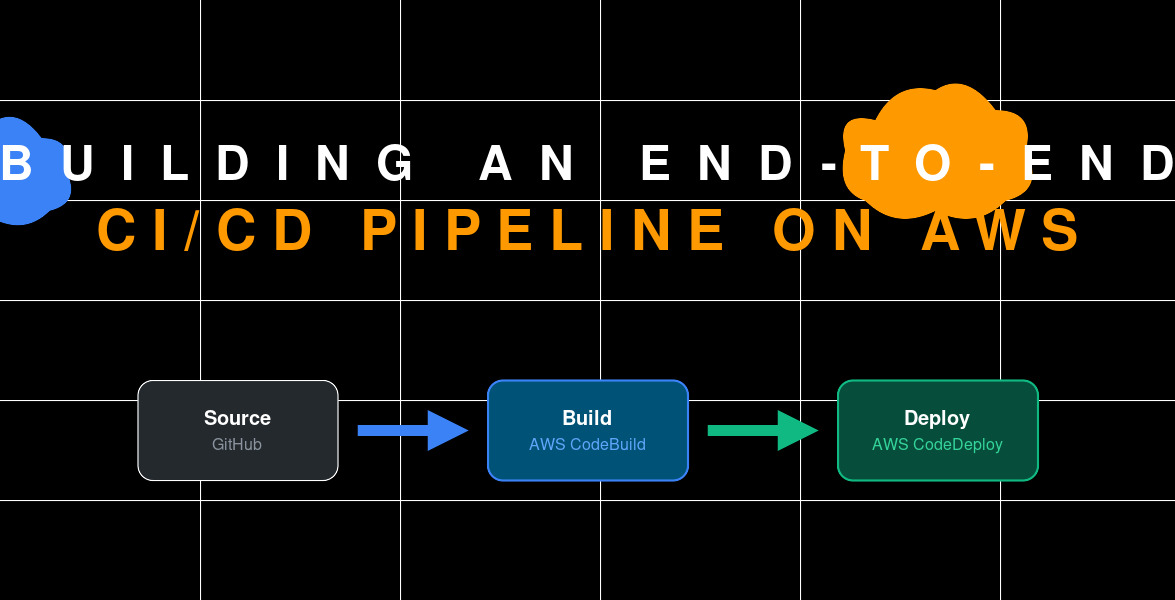
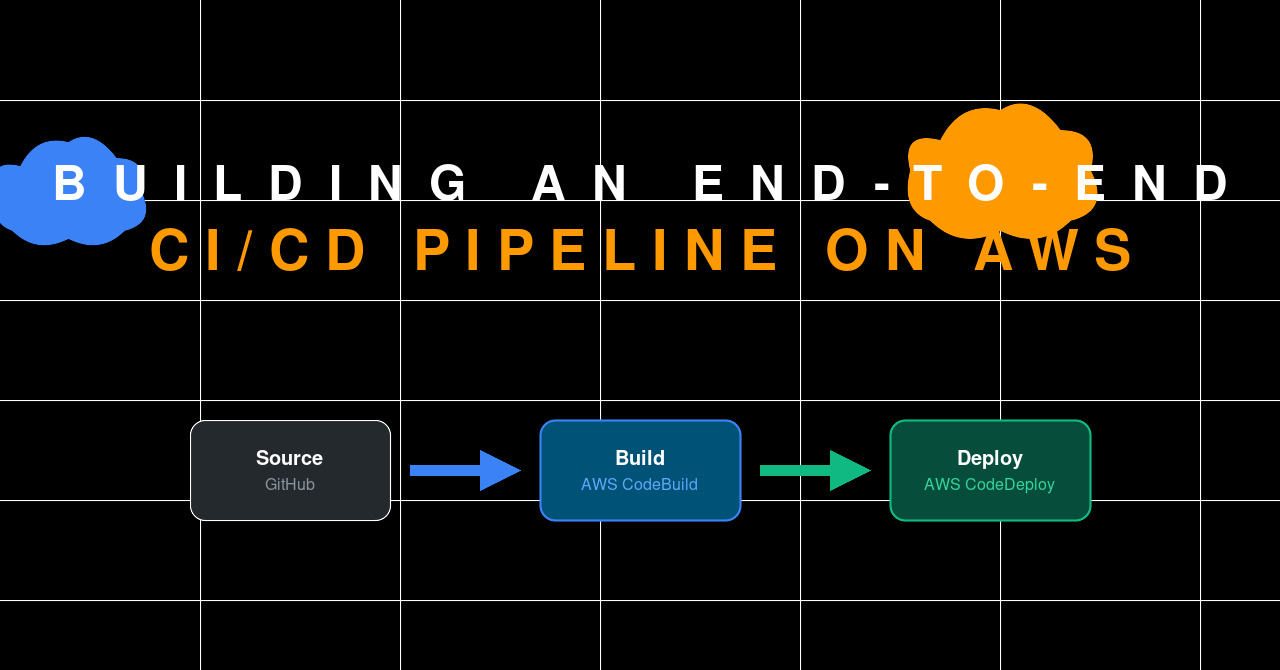
Resize AWS CI/CD header image to 1280x670

diff --git a/_posts/2026-04-17-building-an-end-to-end-ci-cd-pipeline-on-aws-with-github-codebuild-and-codedeploy.md b/_posts/2026-04-17-building-an-end-to-end-ci-cd-pipeline-on-aws-with-github-codebuild-and-codedeploy.md
@@ -7,8 +7,8 @@ tags: [AWS, CI/CD, Docker, GitHub, CodeBuild, CodeDeploy]
 image:
   path: /assets/headers/aws-cicd-pipeline.jpg
   alt: "AWS CI/CD Pipeline"
-  width: 1175
-  height: 600
+  width: 1280
+  height: 670
 published: true
 ---
 > **Complete Tech Blog & Setup Guide**  
